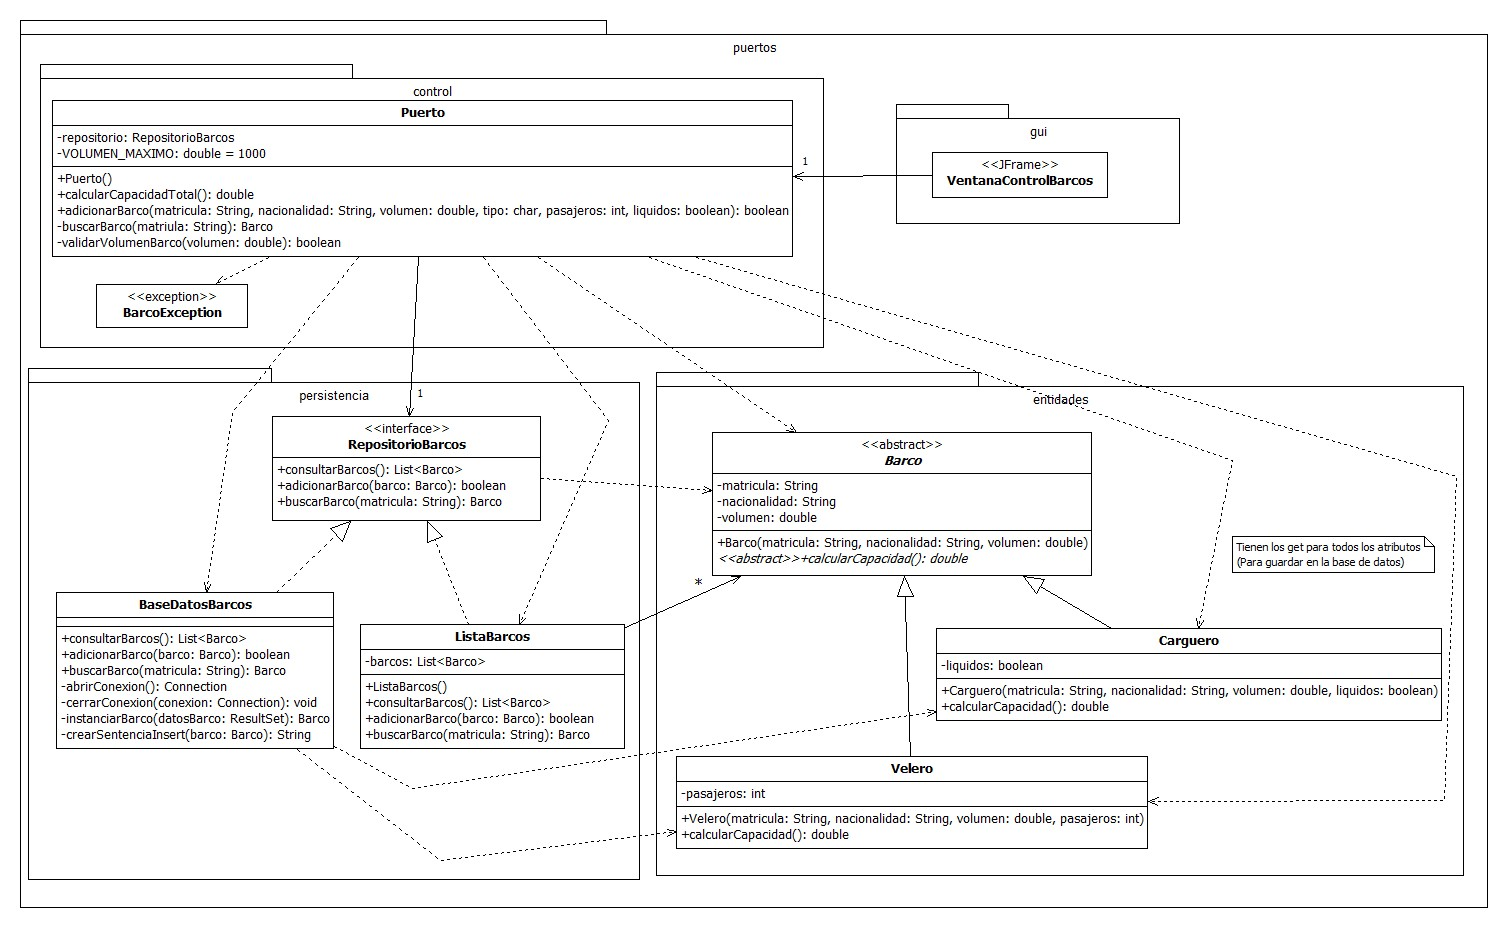
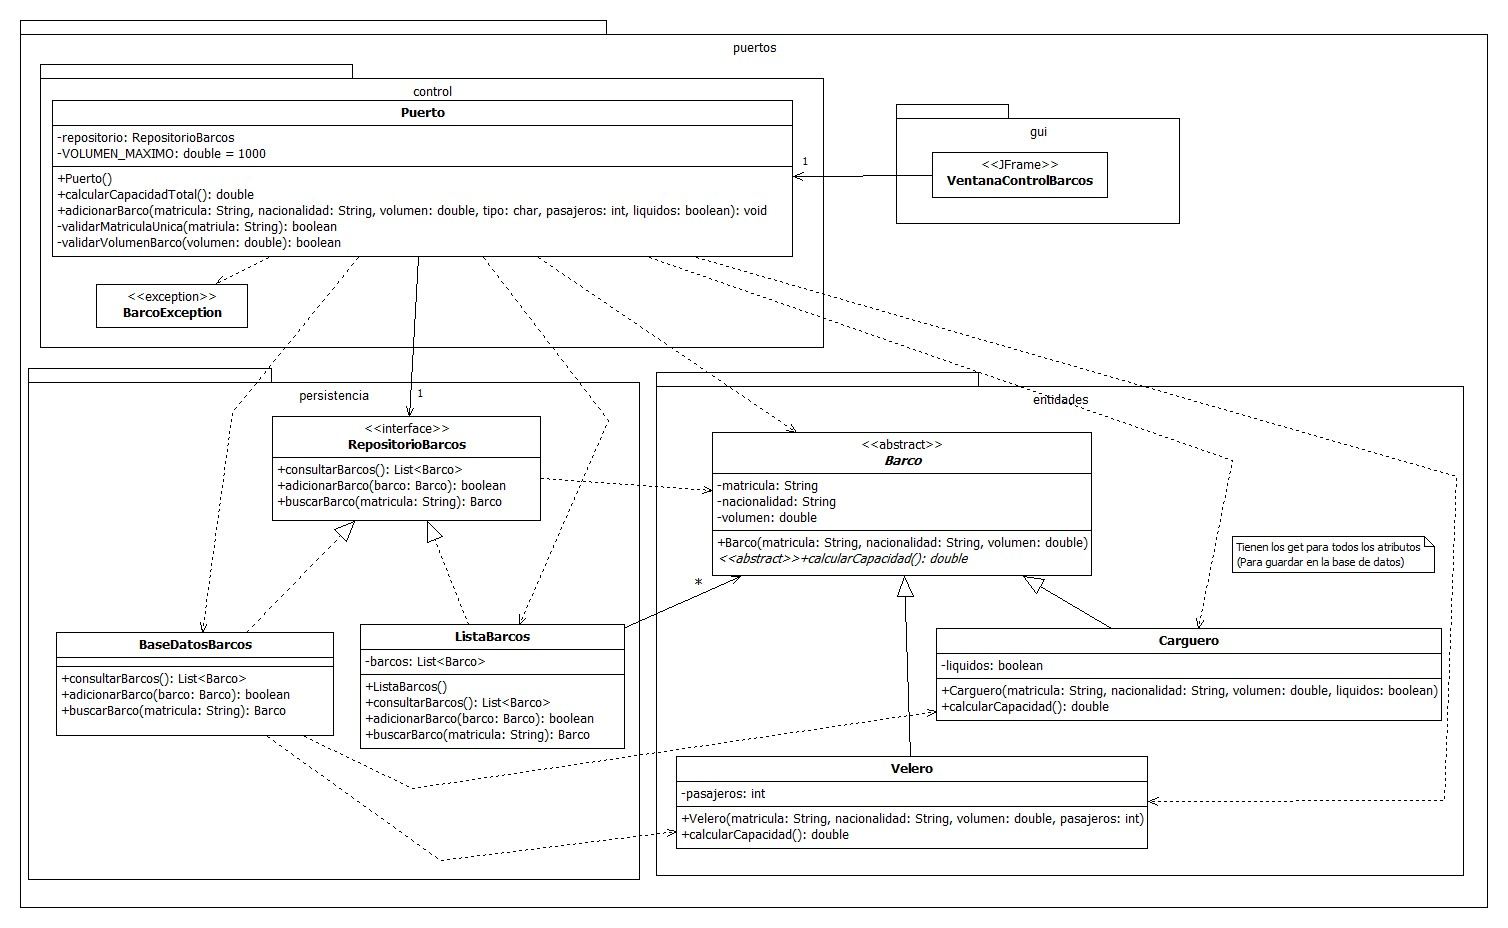
Complementar con validaciones de v3

Changed region(s): [[0.0312, 0.625, 0.2182, 0.8125], [0.0312, 0.2188, 0.2182, 0.25], [0.4987, 0.2188, 0.5298, 0.25]]

diff --git a/src/puertos/persistencia/BaseDatosBarcos.java b/src/puertos/persistencia/BaseDatosBarcos.java
@@ -25,153 +25,104 @@ import puertos.entidades.Velero;
  */
 public class BaseDatosBarcos implements RepositorioBarcos {
 		
+private String cadenaConexion;
+	
+	public BaseDatosBarcos(){
+		try {
+			DriverManager.registerDriver(new org.sqlite.JDBC());
+			cadenaConexion = "jdbc:sqlite:barcos.db";
+		} catch (SQLException e) {
+			System.err.println("Error de conexión con la base de datos: " + e);
+		}
+	}
+
 	@Override
 	public List<Barco> consultarBarcos() {
 		List<Barco> barcos = new ArrayList<Barco>();
-		Connection conexion = null;
-		try {
-			conexion = abrirConexion();
+		try (Connection conexion = DriverManager.getConnection(cadenaConexion)) {			
 			String consultaSQL = "Select matricula,nacionalidad,volumen,pasajeros,liquidos,tipo "
 					+ "from Barcos ";
 			PreparedStatement sentencia = conexion.prepareStatement(consultaSQL);
 			ResultSet resultadoConsulta = sentencia.executeQuery();
 			if (resultadoConsulta != null) {
 				while (resultadoConsulta.next()) {
-					Barco barco = instanciarBarco(resultadoConsulta);
+					Barco barco = null;
+					String matricula = resultadoConsulta.getString("matricula");
+					String nacionalidad = resultadoConsulta.getString("nacionalidad");
+					double volumen = resultadoConsulta.getDouble("volumen");
+					int pasajeros = resultadoConsulta.getInt("pasajeros");
+					boolean liquidos = resultadoConsulta.getBoolean("liquidos");
+					String tipo = resultadoConsulta.getString("tipo");
+					if (tipo.equalsIgnoreCase("velero")) {
+						barco = new Velero (matricula, nacionalidad,volumen, pasajeros);
+					}
+					else if (tipo.equalsIgnoreCase("carguero")) {
+						barco = new Carguero (matricula, nacionalidad,volumen, liquidos);
+					}
 					barcos.add(barco);
 				}
 			}
 		} catch (SQLException e) {
 			System.err.println("Error con la base de datos en consultarBarcos: \n" + e);
-		} finally {
-			cerrarConexion(conexion);
 		}
 		return barcos;
 	}
 
 	@Override
 	public boolean adicionarBarco(Barco barco) {
-		Connection conexion = null;
-		try {
-			conexion = abrirConexion();
-			String sentenciaSQL = crearSentenciaInsert(barco);
+		try (Connection conexion = DriverManager.getConnection(cadenaConexion)) {
+			String tipo = "carguero";
+			if (barco instanceof Velero) {
+				tipo = "velero";
+			}
+			String sentenciaSQL = "Insert into barcos(matricula,nacionalidad,volumen,pasajeros,liquidos,tipo)"
+				+ " values ('"+barco.getMatricula()+"','"+barco.getNacionalidad()+"',"
+				+ barco.getVolumen()+",";
+			if (barco instanceof Velero) {
+				Velero velero = (Velero)barco;
+				sentenciaSQL += velero.getPasajeros()+",null,'"+tipo+"')";
+			}
+			else if (barco instanceof Carguero) {
+				Carguero carguero = (Carguero)barco;
+				int liquido = carguero.getLiquidos()?1:0;
+				sentenciaSQL += "null,"+liquido+","+"'"+tipo+"')";
+			}
 			Statement sentencia = conexion.createStatement();
 			int cantidadInserciones = sentencia.executeUpdate(sentenciaSQL);
 			return (cantidadInserciones > 0);
 		} catch (SQLException e) {
 			System.err.println("Error con la base de datos en adicionarBarco: \n" + e);
-		} finally {
-			cerrarConexion(conexion);
-		}
+		} 
 		return false;
 	}
 
 	@Override
 	public Barco buscarBarco(String matricula) {
-		Connection conexion = null;
-		try {
-			conexion = abrirConexion();
+		try (Connection conexion = DriverManager.getConnection(cadenaConexion)) {
 			String consultaSQL = "Select matricula,nacionalidad,volumen,pasajeros,liquidos,tipo " + " from barcos "
 					+ " where matricula = ?";
 			PreparedStatement sentencia = conexion.prepareStatement(consultaSQL);
 			sentencia.setString(1, matricula);
-			ResultSet resultadoConsulta = sentencia.executeQuery();
-			if (resultadoConsulta != null && resultadoConsulta.next()) {
-				return instanciarBarco(resultadoConsulta);
+			ResultSet datosBarco = sentencia.executeQuery();
+			if (datosBarco != null && datosBarco.next()) {
+				Barco barco = null;
+				String nacionalidad = datosBarco.getString("nacionalidad");
+				double volumen = datosBarco.getDouble("volumen");
+				int pasajeros = datosBarco.getInt("pasajeros");
+				boolean liquidos = datosBarco.getBoolean("liquidos");
+				String tipo = datosBarco.getString("tipo");
+				if (tipo.equalsIgnoreCase("velero")) {
+					barco = new Velero (matricula, nacionalidad,volumen, pasajeros);
+				}
+				else if (tipo.equalsIgnoreCase("carguero")) {
+					barco = new Carguero (matricula, nacionalidad,volumen, liquidos);
+				}
+				return barco;
 			}
 		} catch (SQLException e) {
 			System.err.println("Error con la base de datos en buscarBarco: \n" + e);
-		} finally {
-			cerrarConexion(conexion);
-		}
+		} 
 		return null;
-	}
-
-	/**
-	 * Permite obtener un objeto "Connection" para conectarse con la base de datos.
-	 * Se llamará este método cada vez que se necesite crear una nueva conexión
-	 * a la base de datos para realizar alguna operación (SQL). 
-	 * 
-	 * El método que obtiene esta conexión deberá llamar al método cerrarConexión
-	 * (después de realizar la operación), para que no queden conexiones abiertas
-	 * que consuman recursos.
-	 * 
-	 * @throws SQLException si no se puede crear la conexión con la base de datos
-	 */
-	private Connection abrirConexion() throws SQLException {
-		DriverManager.registerDriver(new org.sqlite.JDBC());
-		String cadenaConexion = "jdbc:sqlite:barcos.db";
-		Connection conexion = DriverManager.getConnection(cadenaConexion);
-		return conexion;
-	}
-	
-	/**
-	 * Cierra una conexión para liberar así los recursos de la misma.
-	 * Si se presenta alguna excepción en el proceso, se escribe el error. 
-	 */
-	private void cerrarConexion(Connection conexion) {
-		if (conexion != null) {
-			try {
-				conexion.close();
-				conexion = null;
-			} catch (SQLException e) {
-				System.err.println("No se pudo obtener la conexión con la Base de Datos:"+conexion);
-			}
-		}
-	}
-	
-	/**
-	 * Crea un objeto barco a partir de los datos de un ResultSet.
-	 * @param datosBarco el ResultSet resultante de una consulta de un barco en la base de datos.
-	 * 						Debe ser diferente de null.
-	 * @return	el objeto barco con sus valores (tomados del ResultSet), o null
-	 * 			si el ResultSet está vacío (es decir, no se encontró al consultar en la BD).
-	 */
-	private Barco instanciarBarco(ResultSet datosBarco) {
-		Barco barco = null;
-		try {
-			String matricula = datosBarco.getString("matricula");
-			String nacionalidad = datosBarco.getString("nacionalidad");
-			double volumen = datosBarco.getDouble("volumen");
-			int pasajeros = datosBarco.getInt("pasajeros");
-			boolean liquidos = datosBarco.getBoolean("liquidos");
-			String tipo = datosBarco.getString("tipo");
-			if (tipo.equalsIgnoreCase("velero")) {
-				barco = new Velero (matricula, nacionalidad,volumen, pasajeros);
-			}
-			else if (tipo.equalsIgnoreCase("carguero")) {
-				barco = new Carguero (matricula, nacionalidad,volumen, liquidos);
-			}
-		} catch (SQLException e) {
-			System.err.println("No se pudo obtener el barco con el ResultSet: "+datosBarco);
-		}
-		return barco;
-	}
-	
-	/**
-	 * Elabora la instrucción SQL para insertar un barco en la base de datos,
-	 *  usando los métodos get del objeto.
-	 * @param barco objeto Barco que se desea insertar en la base de datos,
-	 * 			debe ser diferente de null
-	 */
-	private String crearSentenciaInsert(Barco barco) {
-		String tipo = "carguero";
-		if (barco instanceof Velero) {
-			tipo = "velero";
-		}
-		String sentenciaSQL = "Insert into barcos(matricula,nacionalidad,volumen,pasajeros,liquidos,tipo)"
-				+ " values ('"+barco.getMatricula()+"','"+barco.getNacionalidad()+"',"
-				+ barco.getVolumen()+",";
-		if (barco instanceof Velero) {
-			Velero velero = (Velero)barco;
-			sentenciaSQL += velero.getPasajeros()+",null,'"+tipo+"')";
-		}
-		else if (barco instanceof Carguero) {
-			Carguero carguero = (Carguero)barco;
-			int liquido = carguero.getLiquidos()?1:0;
-			sentenciaSQL += "null,"+liquido+","+"'"+tipo+"')";
-		}
-		return sentenciaSQL;
 	}
 	
 }

diff --git a/src/puertos/control/Puerto.java b/src/puertos/control/Puerto.java
@@ -45,39 +45,44 @@ public class Puerto {
 	 * @param tipo	qué tipo de barco es: 'v' para velero, 'c' para carguero
 	 * @param pasajeros	la cantidad de pasajeros que lleva el barco (solo sirve para veleros)
 	 * @param liquidos	indicación (true/false) de si puede llevar líquidos o no (solo aplica para cargueros)
-	 * @return	un valor booleano indicando si se pudo adicionar el barco
-	 * 			o no (porque ya existía otro con esa matrícula).
 	 * @throws BarcoException cuando algunos de las reglas del negocio no se cumple
 	 */
-	public boolean adicionarBarco(String matricula, String nacionalidad, double volumen, 
+	public void adicionarBarco(String matricula, String nacionalidad, double volumen, 
 			char tipo, int pasajeros, boolean liquidos) throws BarcoException {
+		
+		if (!validarMatriculaUnica(matricula)) {
+			throw new BarcoException("No se puede guardar: Ya existe un barco registrado con esa matrícula");
+		}
 		
 		if (!validarVolumenBarco(volumen)) {
 			throw new BarcoException("Volumen incorrecto: debe estar entre cero y mil [0 - 1000]");
 		}
 		
-		Barco barcoBuscado = buscarBarco(matricula);
-		
-		if (barcoBuscado == null) {
-			switch (tipo) {
-			  case 'v':
-			  case 'V': 
-				  return repositorio.adicionarBarco(new Velero(matricula, nacionalidad, volumen, pasajeros));
-			  case 'c':
-			  case 'C':
-				  return repositorio.adicionarBarco(new Carguero(matricula, nacionalidad, volumen, liquidos));
-			}
+
+		switch (tipo) {
+		  case 'v':
+		  case 'V':
+			repositorio.adicionarBarco(
+					new Velero(matricula, nacionalidad, volumen, pasajeros));
+			break;
+		  case 'c':
+		  case 'C':
+			repositorio.adicionarBarco(
+					new Carguero(matricula, nacionalidad, volumen, liquidos));
+			break;
 		}
-		
-		return false;
 	}
 
 	/**
-	 * Busca un barco entre los que están registrados, por su número de matrícula
-	 * @return el objeto barco con la matrícula dada, o null si no se encuentra
+	 * Valida que la matrícula no esté previamente registrada en la lista de barcos
+	 * @return true si la matrícula es única, o false si ya existe un barco con esa matrícula
 	 */
-	private Barco buscarBarco(String matricula) {
-		return repositorio.buscarBarco(matricula);
+	private boolean validarMatriculaUnica(String matricula) {
+		Barco barco = repositorio.buscarBarco(matricula);
+		if (barco == null) {
+			return true;
+		}
+		return false;
 	}
 	
 	/**

diff --git a/src/puertos/gui/VentanaControlBarcos.java b/src/puertos/gui/VentanaControlBarcos.java
@@ -281,20 +281,26 @@ public class VentanaControlBarcos extends JFrame {
 		int pasajeros = Integer.parseInt(campoPasajeros.getText());
 		boolean liquidos = checkLiquidos.isSelected();
 		
+		if (!validarCampoObligatorio(nacionalidad)) {
+			JOptionPane.showMessageDialog(this,"Se debe ingresar algún dato en nacionalidad", 
+					"Error",JOptionPane.WARNING_MESSAGE);
+		}
+		
 		try {
-			boolean pudoAdicionar = puerto.adicionarBarco(matricula, nacionalidad, volumen, tipo, pasajeros, liquidos);
-			if (pudoAdicionar) {
-				JOptionPane.showMessageDialog(this,"Barco registrado");
-			}
-			else {
-				JOptionPane.showMessageDialog(this,"Barco no registrado. Ya existe esa matrícula",
-						"Error en registro",JOptionPane.WARNING_MESSAGE);
-			}
+			puerto.adicionarBarco(matricula, nacionalidad, volumen, tipo, pasajeros, liquidos);
+			JOptionPane.showMessageDialog(this,"Barco registrado");
 		}
 		catch (BarcoException errorRegistro) {
 			JOptionPane.showMessageDialog(this,errorRegistro.getMessage(), 
 					"Error en registro",JOptionPane.WARNING_MESSAGE);
 		}
+	}
+	
+	private boolean validarCampoObligatorio(String valor) {
+		if (valor == null || valor.isBlank()) {
+			return false;
+		}
+		return true;
 	}
 	
 	/**

diff --git a/src/puertos/persistencia/RepositorioBarcos.java b/src/puertos/persistencia/RepositorioBarcos.java
@@ -21,7 +21,7 @@ public interface RepositorioBarcos {
 	public abstract boolean adicionarBarco(Barco barco);
 	
 	/**
-	 * Busca un barco en la base de datos a partir de su matrícula
+	 * Busca un barco en el repositorio a partir de su matrícula
 	 * @param matricula	el número de matrícula del barco que se desea buscar,
 	 * 			debe ser diferente de null
 	 * @return	el objeto barco con la matrícula dada, o null si no se encuentra.
